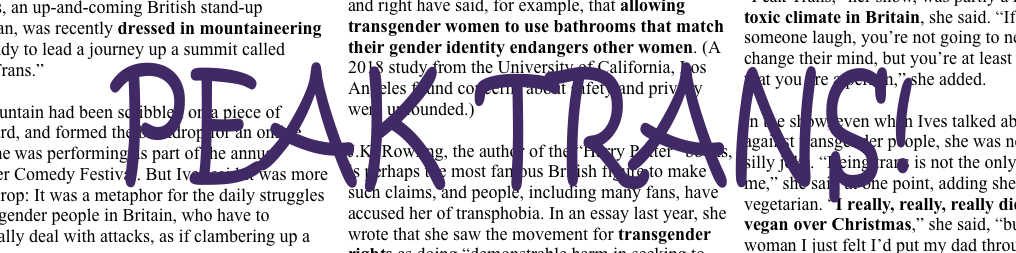
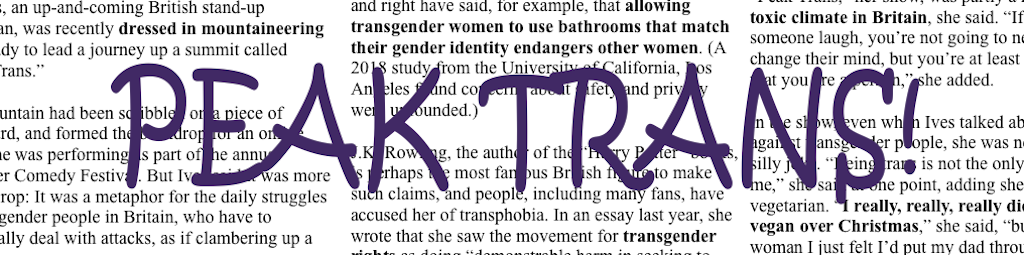
twitter and stuff

diff --git a/index.html b/index.html
@@ -7,10 +7,18 @@
   <meta name="description" content="">
   <meta name="viewport" content="width=device-width, initial-scale=1">
 
-  <meta property="og:title" content="">
-  <meta property="og:type" content="">
-  <meta property="og:url" content="">
-  <meta property="og:image" content="">
+<meta property="og:site_name" content="Peak Trans">
+<meta property="og:type" content="website">
+<meta property="og:title" content="Peak Trans">
+<meta property="og:description" content="Quite challenging trans comedy">
+<meta property="og:url" content="https://www.peaktrans.org.uk/">
+<meta property="og:image" content="https://www.peaktrans.org.uk/twitter-card.png">
+<meta property="og:image:secure_url" content="https://www.peaktrans.org.uk/twitter-card.png">
+<meta name="twitter:card" content="summary_large_image">
+<meta name="twitter:domain" content="www.peaktrans.org">
+<meta name="twitter:image" content="https://www.peaktrans.org.uk/twitter-card.png">
+<meta name="twitter:title" content="Peak Trans">
+<meta name="twitter:description" content="Quite challenging trans comedy">
 
   <link rel="manifest" href="site.webmanifest">
   <link rel="apple-touch-icon" href="icon.png">
@@ -73,14 +81,18 @@
     <ul class="nav">
       <li><a href="/">Home</a></li>
     </ul>
-    <h1 class="header"><img src="header.png" alt="Peak Trans!"></h1>
+    <h1 class="header"><img src="header.png" alt="Peak Trans!" width="1024" height="255"></h1>
 
     <p class="art-postheader">QUITE CHALLENGING TRANSGENDERIST COMEDY</p>
 
     <blockquote class="twitter-tweet"><p lang="en" dir="ltr">super jazzed🏳⚧to share🏔this trailer🏳⚧for my upcoming HOUR &quot;PEAK TRANS&quot;🏔with you. The show🏳⚧ will be a lot of fun, and if you&#39;re in🏳⚧London in the next couple🏔of months - I&#39;d love to have🏔you in.🏳⚧ <a href="https://t.co/l0LGat8Eek">https://t.co/l0LGat8Eek</a> &amp; <a href="https://t.co/5goHb0jTSr">https://t.co/5goHb0jTSr</a> <a href="https://t.co/0FyTyXqt2S">pic.twitter.com/0FyTyXqt2S</a></p>&mdash; 🅹🅴🅽 🅸🆅🅴🆂 (@jenivescomedian) <a href="https://twitter.com/jenivescomedian/status/1410182568746655744?ref_src=twsrc%5Etfw">June 30, 2021</a></blockquote>
     <script async src="https://platform.twitter.com/widgets.js" charset="utf-8"></script>
 
-    <img src="endearing.jpg" alt="Really quite endearing - Maria MacLachlan">
+    <a href="https://www.jenives.net"><img src="endearing.jpg" alt="Really quite endearing - Maria MacLachlan"></a>
+
+    <a href=""><img src="youtube.png" alt="youtube"></a>
+
+
 
   </main>
 
